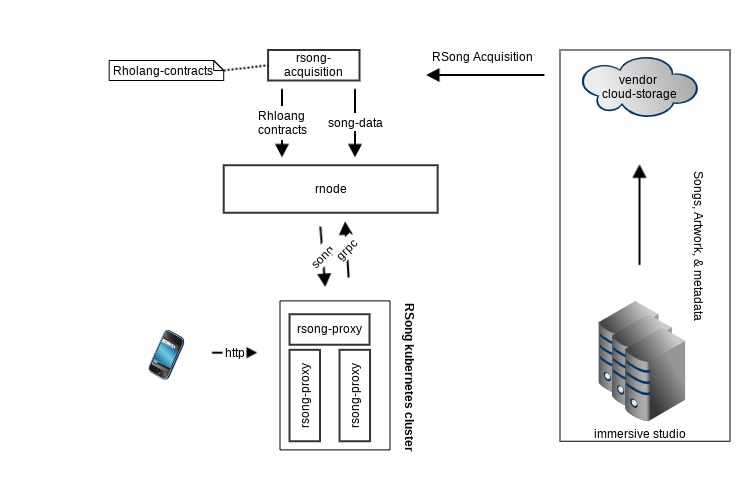
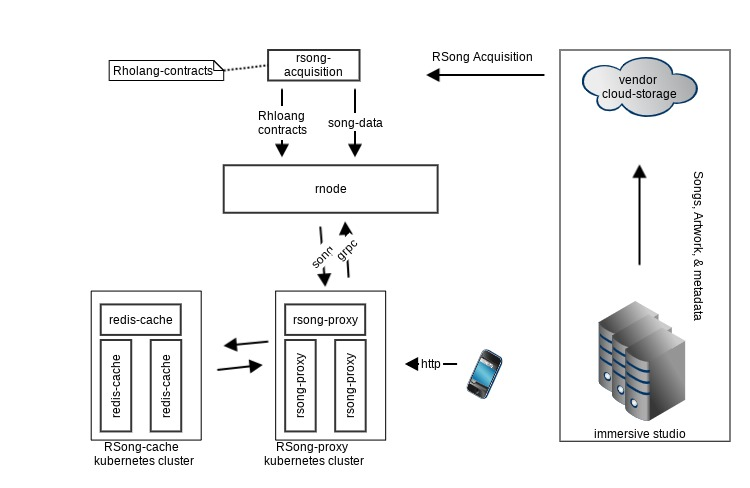
fix impl redis cach

diff --git a/README.md b/README.md
@@ -110,7 +110,7 @@ This is a single instance at this time.
 
 ### rsong-proxy
 rsong-proxy runs on [kubernetes-cluster](https://kubernetes.io/) on  [GCP]((https://cloud.google.com/))
-See [deployment-prd-spec](./k8-spec/app/deploy-pod.yaml) for more detail
+See [deployment-prd-spec](k8-spec/app/proxy-deploy-pod.yaml) for more detail
 
 
 ## References
